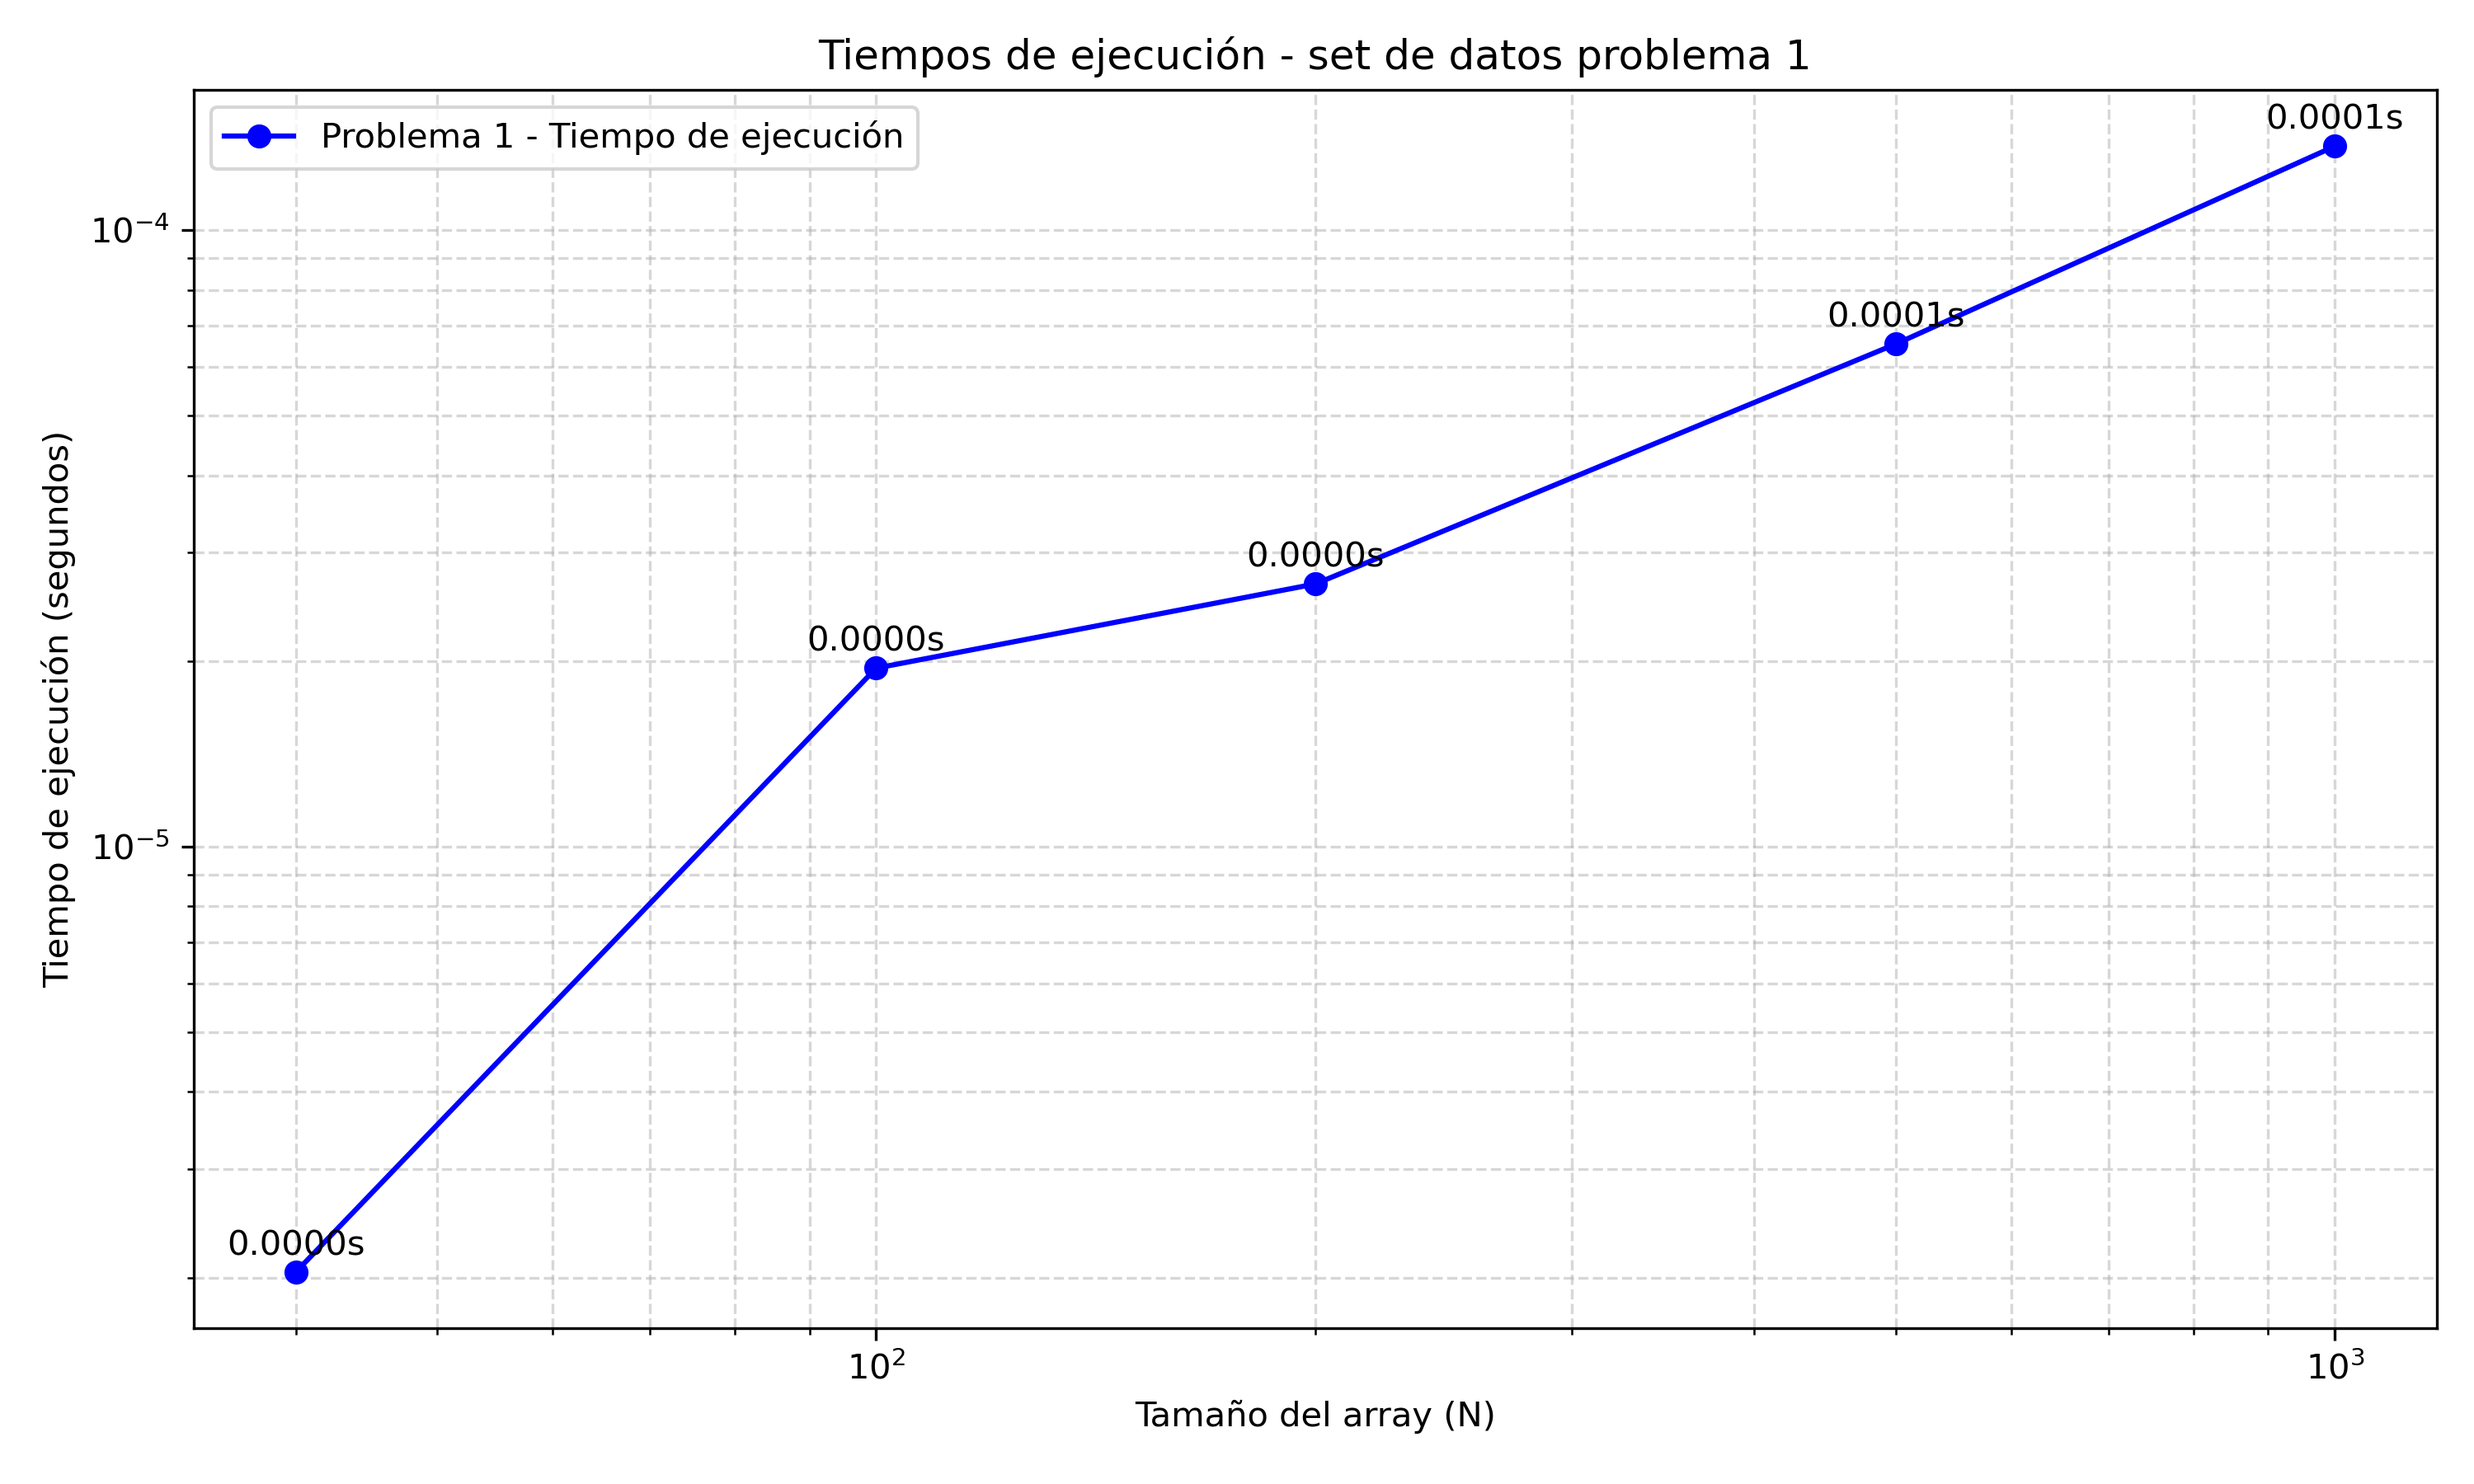
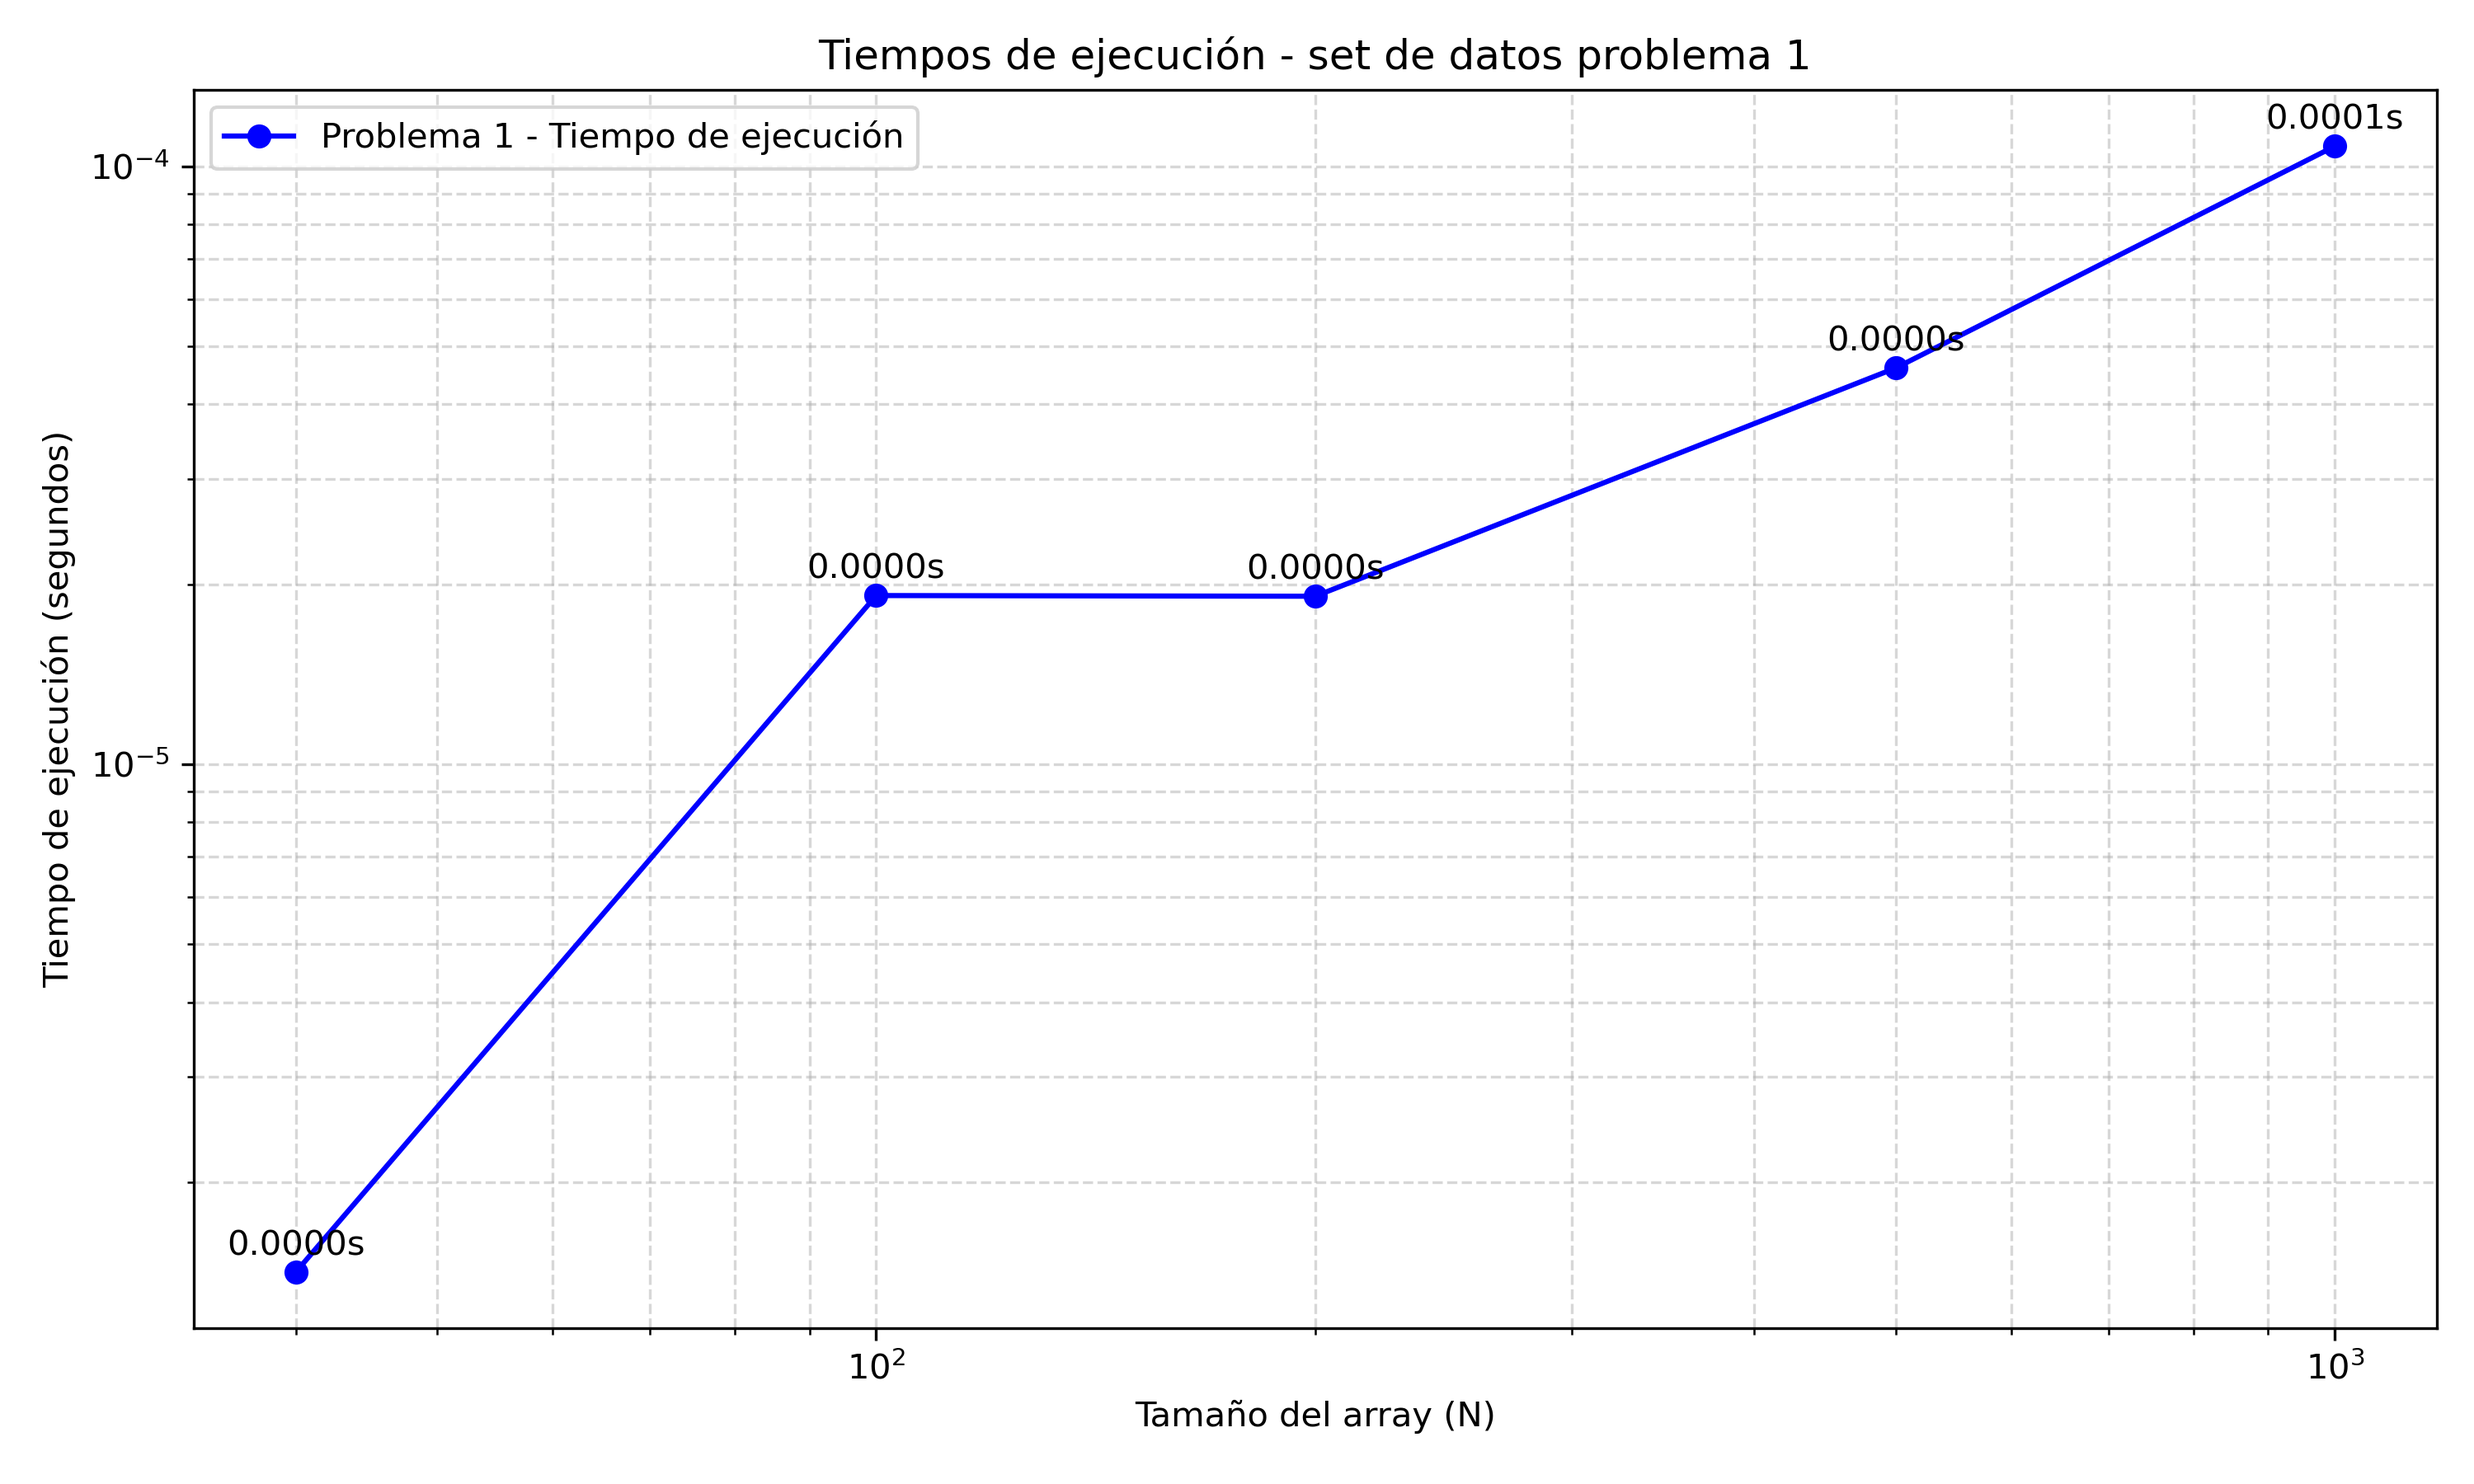
readme

diff --git a/problema1/mediciones/mediciones2.py b/problema1/mediciones/mediciones2.py
@@ -1,8 +1,6 @@
 import numpy as np
 import time
 import matplotlib.pyplot as plt
-import ast
-import re
 
 def problema1(lista, inicio, final):
     # caso base: si inicio es mayor a final, la condición no existe

diff --git a/problema1/README.md b/problema1/README.md
@@ -7,3 +7,12 @@ La solucion planteada utiliza el set de datos generado (`pruebas/set_de_datos.tx
 
 # Requisitos 
 - Python 3.12.3
+
+# Bibliotecas externas
+
+## Generación de graficos
+- Numpy
+- Matplotlib 
+
+
+
